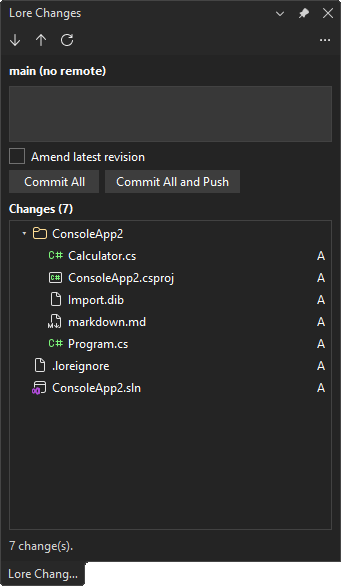
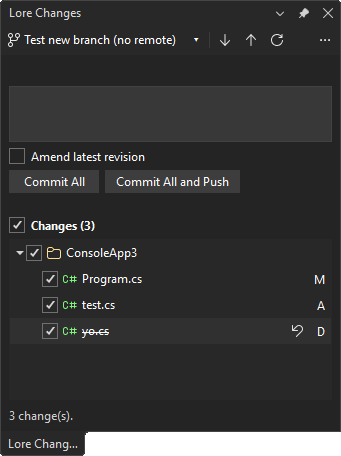
feat(scc): add support for renamed/moved files with R badge
- Introduce LoreFileStatus.Renamed and handle MOVE as rename
- Carry original path for renamed files in contract and UI models
- Show "R" badge and original path tooltip for renamed files
- Treat renamed files as checked out in glyphs and tooltips
- Add strikethrough styling for deleted files in UI
- Update LoreStatusMapper, tests, and README for rename support

diff --git a/src/UI/LoreChangesControl.xaml b/src/UI/LoreChangesControl.xaml
@@ -272,9 +272,21 @@
                                                 Moniker="{Binding Icon}"
                                                 Width="16" Height="16"
                                                 VerticalAlignment="Center" />
+                            <!-- Top margin of -1 optically centers the file name against the 16px
+                                 icon: a TextBlock's line box otherwise sits a pixel low (font leading). -->
                             <TextBlock Grid.Column="2" Text="{Binding Name}"
-                                       VerticalAlignment="Center" Margin="4,0,0,0"
-                                       TextTrimming="CharacterEllipsis" />
+                                       VerticalAlignment="Center" Margin="4,-1,0,0"
+                                       TextTrimming="CharacterEllipsis">
+                                <TextBlock.Style>
+                                    <Style TargetType="TextBlock">
+                                        <Style.Triggers>
+                                            <DataTrigger Binding="{Binding IsDeleted}" Value="True">
+                                                <Setter Property="TextDecorations" Value="Strikethrough" />
+                                            </DataTrigger>
+                                        </Style.Triggers>
+                                    </Style>
+                                </TextBlock.Style>
+                            </TextBlock>
                             <Button Grid.Column="3"
                                     Style="{StaticResource LoreRowActionButtonStyle}"
                                     Click="OnUndoFileClick"

diff --git a/src/UI/LoreChangeItem.cs b/src/UI/LoreChangeItem.cs
@@ -10,7 +10,7 @@ namespace LoreVS.UI
     /// </summary>
     public sealed class LoreChangeItem
     {
-        public LoreChangeItem(string fullPath, string repositoryRoot, LoreFileStatus status)
+        public LoreChangeItem(string fullPath, string repositoryRoot, LoreFileStatus status, string? originalPath = null)
         {
             FullPath = fullPath;
             Status = status;
@@ -19,6 +19,11 @@ namespace LoreVS.UI
 
             string dir = Path.GetDirectoryName(RelativePath);
             Directory = string.IsNullOrEmpty(dir) ? string.Empty : dir;
+
+            OriginalFullPath = string.IsNullOrEmpty(originalPath) ? null : originalPath;
+            OriginalRelativePath = OriginalFullPath == null
+                ? null
+                : MakeRelative(repositoryRoot, OriginalFullPath);
         }
 
         /// <summary>Absolute path of the file on disk.</summary>
@@ -36,7 +41,19 @@ namespace LoreVS.UI
         /// <summary>The normalized Lore status.</summary>
         public LoreFileStatus Status { get; }
 
-        /// <summary>Single-letter status badge (M, A, D, C, L) shown next to the file.</summary>
+        /// <summary>
+        /// For a renamed/moved file, the absolute path it was moved from; otherwise
+        /// <see langword="null"/>.
+        /// </summary>
+        public string? OriginalFullPath { get; }
+
+        /// <summary>
+        /// For a renamed/moved file, the source path relative to the repository root; otherwise
+        /// <see langword="null"/>.
+        /// </summary>
+        public string? OriginalRelativePath { get; }
+
+        /// <summary>Single-letter status badge (M, A, D, R, C, L) shown next to the file.</summary>
         public string StatusBadge
         {
             get
@@ -46,6 +63,7 @@ namespace LoreVS.UI
                     case LoreFileStatus.Modified: return "M";
                     case LoreFileStatus.Added: return "A";
                     case LoreFileStatus.Deleted: return "D";
+                    case LoreFileStatus.Renamed: return "R";
                     case LoreFileStatus.Conflicted: return "C";
                     case LoreFileStatus.Locked: return "L";
                     default: return string.Empty;
@@ -63,6 +81,10 @@ namespace LoreVS.UI
                     case LoreFileStatus.Modified: return "Modified";
                     case LoreFileStatus.Added: return "Added";
                     case LoreFileStatus.Deleted: return "Deleted";
+                    case LoreFileStatus.Renamed:
+                        return OriginalRelativePath == null
+                            ? "Renamed"
+                            : "Renamed from " + OriginalRelativePath;
                     case LoreFileStatus.Conflicted: return "Conflicted";
                     case LoreFileStatus.Locked: return "Locked";
                     default: return Status.ToString();

diff --git a/test/LoreVS.Tests/LoreChangeItemTests.cs b/test/LoreVS.Tests/LoreChangeItemTests.cs
@@ -71,5 +71,27 @@ namespace LoreVS.Tests
             Assert.AreEqual(badge, item.StatusBadge);
             Assert.AreEqual(text, item.StatusText);
         }
+
+        [TestMethod]
+        public void Renamed_BadgeIsRAndCarriesOriginalPath()
+        {
+            var item = new LoreChangeItem(@"C:\repo\src\New.cs", Root, LoreFileStatus.Renamed, @"C:\repo\src\Old.cs");
+
+            Assert.AreEqual("R", item.StatusBadge);
+            Assert.AreEqual(@"src\Old.cs", item.OriginalRelativePath);
+            Assert.AreEqual(@"C:\repo\src\Old.cs", item.OriginalFullPath);
+            Assert.AreEqual(@"Renamed from src\Old.cs", item.StatusText);
+        }
+
+        [TestMethod]
+        public void Renamed_WithoutOriginalPath_FallsBackToPlainText()
+        {
+            var item = new LoreChangeItem(@"C:\repo\src\New.cs", Root, LoreFileStatus.Renamed);
+
+            Assert.AreEqual("R", item.StatusBadge);
+            Assert.IsNull(item.OriginalRelativePath);
+            Assert.IsNull(item.OriginalFullPath);
+            Assert.AreEqual("Renamed", item.StatusText);
+        }
     }
 }

diff --git a/test/LoreVS.Tests/LoreTreeNodeTests.cs b/test/LoreVS.Tests/LoreTreeNodeTests.cs
@@ -129,6 +129,24 @@ namespace LoreVS.Tests
         }
 
         [TestMethod]
+        public void FileLeaf_IsDeleted_OnlyForDeletedStatus()
+        {
+            List<LoreTreeNode> roots = LoreTreeNode.BuildTree(new[]
+            {
+                File(@"src\Gone.cs", LoreFileStatus.Deleted),
+                File(@"src\New.cs", LoreFileStatus.Added),
+            });
+
+            LoreTreeNode folder = roots[0];
+            LoreTreeNode deleted = folder.Children.Single(n => n.Name == "Gone.cs");
+            LoreTreeNode added = folder.Children.Single(n => n.Name == "New.cs");
+
+            Assert.IsTrue(deleted.IsDeleted);
+            Assert.IsFalse(added.IsDeleted);
+            Assert.IsFalse(folder.IsDeleted);
+        }
+
+        [TestMethod]
         public void FileLeaf_DefaultsToChecked()
         {
             List<LoreTreeNode> roots = LoreTreeNode.BuildTree(new[]

diff --git a/worker/LoreVS.Worker/LoreServiceImpl.cs b/worker/LoreVS.Worker/LoreServiceImpl.cs
@@ -113,6 +113,7 @@ namespace LoreVS.Worker
                         {
                             Path = NormalizePath(repositoryRoot, file.Path),
                             Status = LoreStatusMapper.Map(file),
+                            OriginalPath = ResolveOriginalPath(repositoryRoot, file),
                         });
                     }
                     catch (Exception ex)
@@ -172,6 +173,7 @@ namespace LoreVS.Worker
                                 {
                                     Path = normalized,
                                     Status = LoreStatusMapper.Map(file),
+                                    OriginalPath = ResolveOriginalPath(repositoryRoot, file),
                                 });
                             }
                         }
@@ -928,6 +930,21 @@ namespace LoreVS.Worker
             {
                 return path;
             }
+        }
+
+        /// <summary>
+        /// Returns the absolute, normalized path a moved/renamed file came from, or an empty string
+        /// when the event is not a move (or the SDK did not report a source path). Only
+        /// <see cref="LoreFileAction.MOVE"/> events carry a meaningful <c>FromPath</c>.
+        /// </summary>
+        private static string ResolveOriginalPath(string repositoryRoot, LoreRepositoryStatusFileEventDataFFI file)
+        {
+            if (file.Action != LoreFileAction.MOVE || string.IsNullOrEmpty(file.FromPath))
+            {
+                return string.Empty;
+            }
+
+            return NormalizePath(repositoryRoot, file.FromPath);
         }
     }
 }

diff --git a/src/SourceControl/ILoreWorkerContract.cs b/src/SourceControl/ILoreWorkerContract.cs
@@ -234,5 +234,11 @@ namespace LoreVS.SourceControl
 
         /// <summary>The file's normalized Lore status.</summary>
         public LoreFileStatus Status { get; set; }
+
+        /// <summary>
+        /// For a renamed/moved file (<see cref="LoreFileStatus.Renamed"/>), the absolute, normalized
+        /// path the file was moved from. Empty for every other status.
+        /// </summary>
+        public string OriginalPath { get; set; } = string.Empty;
     }
 }

diff --git a/src/UI/LoreTreeNode.cs b/src/UI/LoreTreeNode.cs
@@ -201,6 +201,12 @@ namespace LoreVS.UI
         /// <summary>Single-letter status badge for a file leaf; empty for folders.</summary>
         public string StatusBadge => File?.StatusBadge ?? string.Empty;
 
+        /// <summary>
+        /// True when this row is a deleted file leaf. Drives the strikethrough styling so deleted
+        /// files read as removed at a glance.
+        /// </summary>
+        public bool IsDeleted => File?.Status == LoreVS.SourceControl.LoreFileStatus.Deleted;
+
         /// <summary>Human-readable status for the tooltip; empty for folders.</summary>
         public string StatusText => File?.StatusText ?? string.Empty;
 

diff --git a/src/SourceControl/LoreSccService.cs b/src/SourceControl/LoreSccService.cs
@@ -344,6 +344,7 @@ namespace LoreVS.SourceControl
                 case LoreFileStatus.Unchanged:
                     return VsStateIcon.STATEICON_CHECKEDIN;
                 case LoreFileStatus.Modified:
+                case LoreFileStatus.Renamed:
                     return VsStateIcon.STATEICON_CHECKEDOUT;
                 case LoreFileStatus.Added:
                     return _customGlyphsRegistered
@@ -371,6 +372,7 @@ namespace LoreVS.SourceControl
                 case LoreFileStatus.Modified:
                 case LoreFileStatus.Added:
                 case LoreFileStatus.Deleted:
+                case LoreFileStatus.Renamed:
                 case LoreFileStatus.Conflicted:
                 case LoreFileStatus.Locked:
                     return SccStatusControlled | SccStatusCheckedOut;
@@ -393,6 +395,8 @@ namespace LoreVS.SourceControl
                     return "Lore: added";
                 case LoreFileStatus.Deleted:
                     return "Lore: deleted";
+                case LoreFileStatus.Renamed:
+                    return "Lore: renamed";
                 case LoreFileStatus.Conflicted:
                     return "Lore: conflicted";
                 case LoreFileStatus.Locked:

diff --git a/test/LoreVS.Worker.Tests/LoreStatusMapperTests.cs b/test/LoreVS.Worker.Tests/LoreStatusMapperTests.cs
@@ -8,7 +8,7 @@ namespace LoreVS.Worker.Tests
     /// <summary>
     /// Tests for <see cref="LoreStatusMapper.Map(LoreFileAction, bool, bool, bool)"/>, which normalizes
     /// a Lore status file event into the <see cref="LoreFileStatus"/> the SCC glyphs consume. Conflict
-    /// must win over the action, MOVE/COPY count as modified, and a dirty KEEP is modified.
+    /// must win over the action, MOVE is a rename, COPY counts as modified, and a dirty KEEP is modified.
     /// </summary>
     [TestClass]
     public class LoreStatusMapperTests
@@ -16,7 +16,7 @@ namespace LoreVS.Worker.Tests
         [DataTestMethod]
         [DataRow(LoreFileAction.ADD, LoreFileStatus.Added)]
         [DataRow(LoreFileAction.DELETE, LoreFileStatus.Deleted)]
-        [DataRow(LoreFileAction.MOVE, LoreFileStatus.Modified)]
+        [DataRow(LoreFileAction.MOVE, LoreFileStatus.Renamed)]
         [DataRow(LoreFileAction.COPY, LoreFileStatus.Modified)]
         public void Map_ActionDrivesStatus(LoreFileAction action, LoreFileStatus expected)
         {

diff --git a/src/SourceControl/LoreFileStatus.cs b/src/SourceControl/LoreFileStatus.cs
@@ -21,6 +21,9 @@ namespace LoreVS.SourceControl
         /// <summary>Removed from the working tree but still tracked.</summary>
         Deleted,
 
+        /// <summary>Renamed or moved from another path in the working tree.</summary>
+        Renamed,
+
         /// <summary>In a conflicted/merge state.</summary>
         Conflicted,
 

diff --git a/src/UI/LoreChangesViewModel.cs b/src/UI/LoreChangesViewModel.cs
@@ -369,7 +369,7 @@ namespace LoreVS.UI
                 Changes.Clear();
                 IEnumerable<LoreChangeItem> items = (snapshot?.Files ?? Array.Empty<LoreStatusEntry>())
                     .Where(e => !string.IsNullOrEmpty(e.Path) && IsChange(e.Status))
-                    .Select(e => new LoreChangeItem(e.Path, root, e.Status))
+                    .Select(e => new LoreChangeItem(e.Path, root, e.Status, e.OriginalPath))
                     .OrderBy(i => i.RelativePath, StringComparer.OrdinalIgnoreCase);
 
                 foreach (LoreChangeItem item in items)
@@ -949,6 +949,7 @@ namespace LoreVS.UI
                 case LoreFileStatus.Modified:
                 case LoreFileStatus.Added:
                 case LoreFileStatus.Deleted:
+                case LoreFileStatus.Renamed:
                 case LoreFileStatus.Conflicted:
                     return true;
                 default:

diff --git a/worker/LoreVS.Worker/LoreStatusMapper.cs b/worker/LoreVS.Worker/LoreStatusMapper.cs
@@ -38,6 +38,7 @@ namespace LoreVS.Worker
                 case LoreFileAction.DELETE:
                     return LoreFileStatus.Deleted;
                 case LoreFileAction.MOVE:
+                    return LoreFileStatus.Renamed;
                 case LoreFileAction.COPY:
                     return LoreFileStatus.Modified;
                 case LoreFileAction.KEEP: